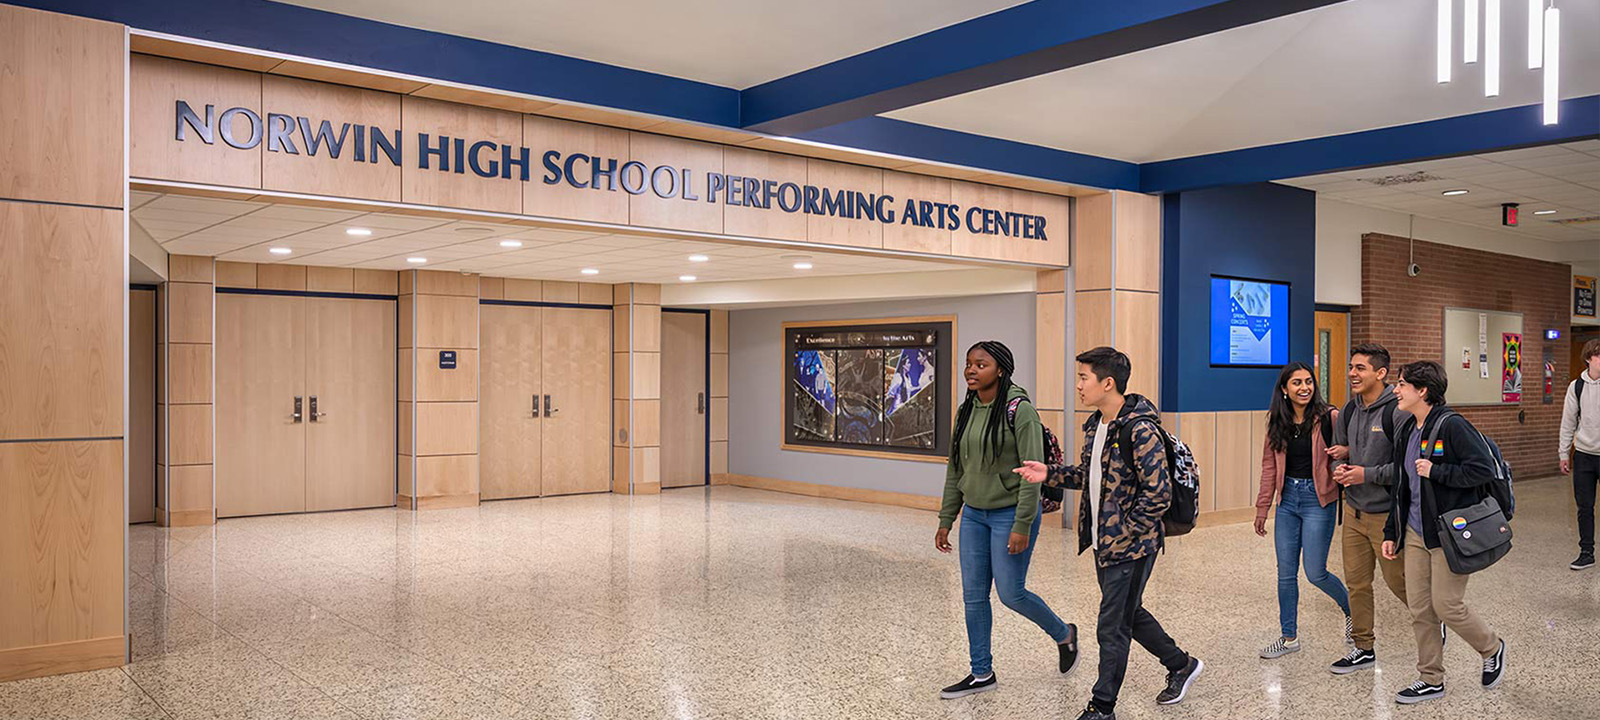
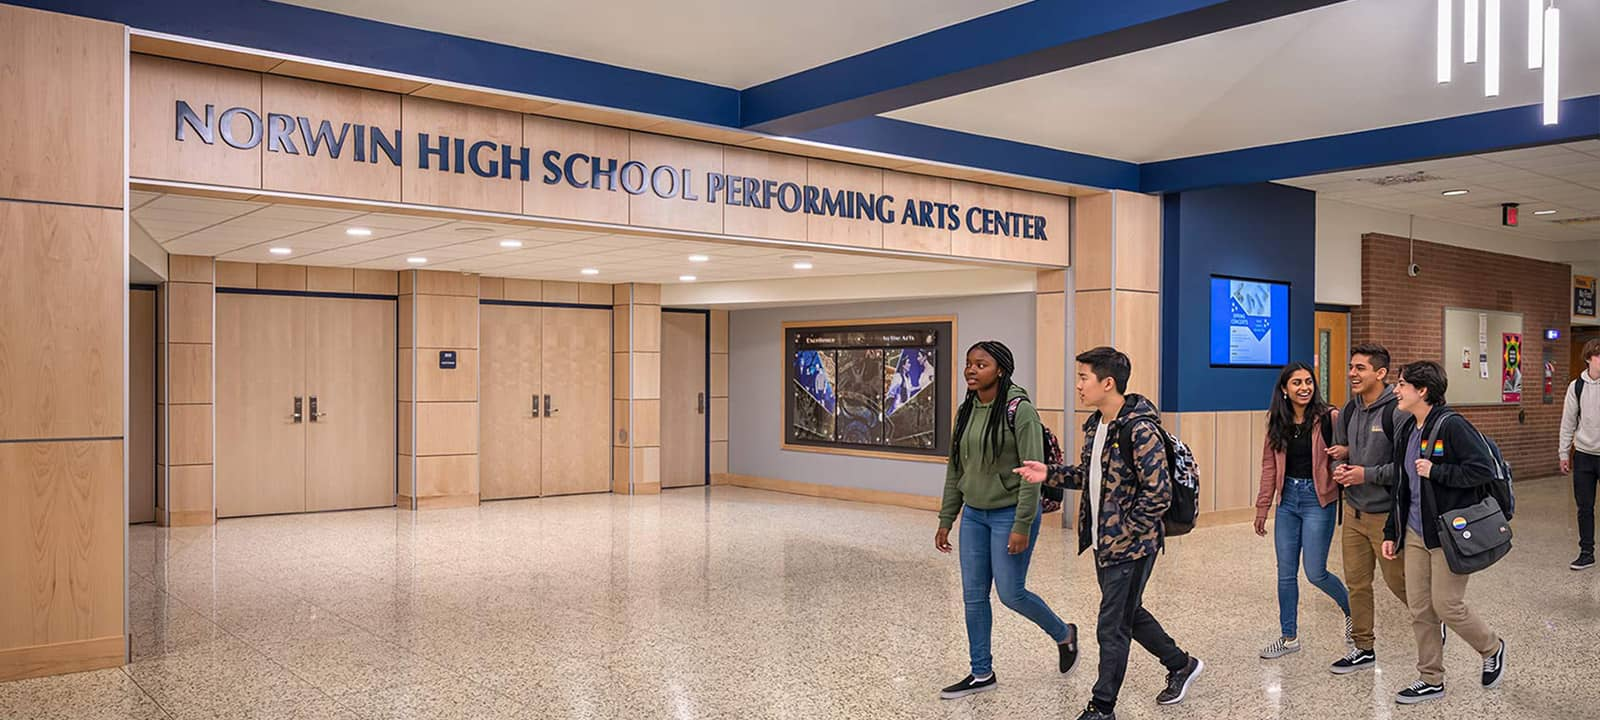
news: steiner days of giving scholarship video

diff --git a/content/news/2026/2026-10-09-creating-opportunities/index.md b/content/news/2026/2026-10-09-creating-opportunities/index.md
@@ -1,0 +1,32 @@
++++
+date    = 2026-10-09T13:00:00-05:00
+title   = "Scholarships that support students and carry local legacies forward"
+author = "Lauren Steiner"
+draft   = false
+"news/categories" = ["Giving"]
+
+[[resources]]
+  src  = "mast_steiner.jpg"
+  name = "featured"
+
+[[videos]]
+  name        = "NSDCF Scholarships: Creating Opportunities for Norwin Students"
+  embedUrl    = "https://www.youtube.com/embed/d55pQJtOwpc"
+  url         = "https://www.youtube.com/watch?v=d55pQJtOwpc"
+  description = "Each year, the Norwin School District Community Foundation helps connect graduating Norwin High School students with scholarships created by families, alumni and community members. NSDCF Executive Director and Scholarship Committee Chair Lauren Steiner explains how these scholarships support students' post-secondary plans while also giving donors a way to honor or remember someone, give back to Norwin, or encourage students to pursue a particular school, program or field of study."
+  duration    = "2m23s"
+  youtubeId   = "d55pQJtOwpc"
+  uploadDate  = 2026-10-09T18:00:00-05:00
++++
+
+For many families and donors, creating a scholarship through the Norwin School District Community Foundation begins with someone they want to honor, remember or thank.
+
+Lauren Steiner, Executive Director of NSDCF and Chair of the Foundation's Scholarship Committee, works with families, alumni and community members who establish scholarships for Norwin students. Some commemorate a loved one. Others give back in appreciation for what Norwin has meant to a family or encourage students to continue their education in a particular school, program or field.
+
+The Foundation was established in part to provide a charitable 501(c)(3) organization through which donors can create these scholarships. Each year, NSDCF then helps connect graduating Norwin High School students with the opportunities available to them.
+
+That work resulted in 45 scholarships and 57 individual awards totaling more than $210,000 in the spring of 2026.
+
+Behind those numbers are individual students preparing for life after Norwin and donors who have chosen to attach meaning and purpose to the support they provide. A scholarship can help with the cost of a student's next step while allowing a person's name, values or connection to Norwin to continue through future graduates.
+
+More information about scholarships facilitated by NSDCF is available at nsdcf.org. Donations to existing scholarships can be made at nsdcf.org/giving.
